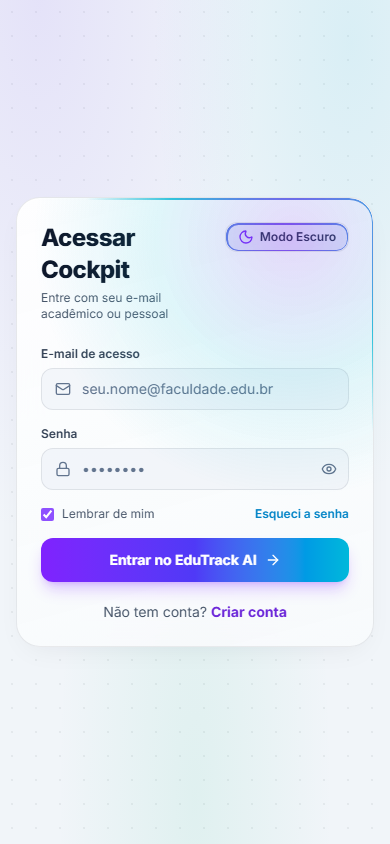
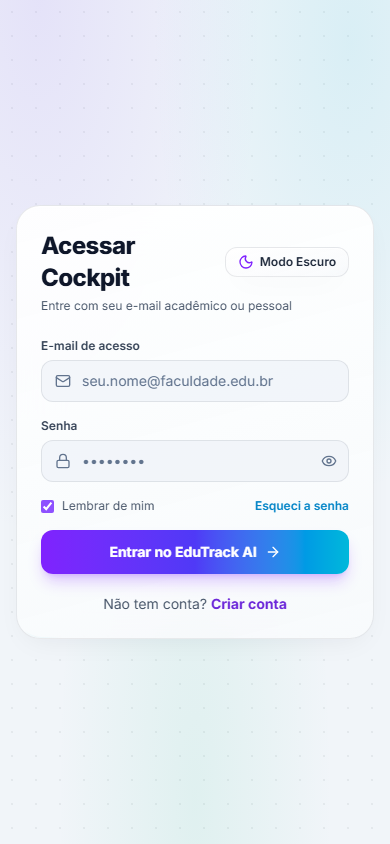
fix: move login theme toggle inside the login card
Replace the floating fixed toggle (desktop) and the mobile-only in-card toggle with a single toggle next to the 'Acessar Cockpit' title on all screen sizes; keep the subtitle on its own full-width line. Updates login screenshots.

Changed region(s): [[0.0923, 0.2156, 0.9538, 0.7701]]

diff --git a/src/views/LoginView.tsx b/src/views/LoginView.tsx
@@ -149,15 +149,6 @@ export const LoginView: React.FC = () => {
 
   return (
     <div className="min-h-screen bg-transparent text-slate-100 flex items-center justify-center p-4 sm:p-6 relative">
-      {/* Floating Theme Toggle on Desktop Login Screen */}
-      <button
-        type="button"
-        onClick={toggleTheme}
-        className="hidden sm:flex !fixed top-5 right-5 z-50 items-center gap-2 px-3.5 py-2 rounded-xl bento-card text-xs font-semibold text-slate-200 hover:border-violet-500/40 transition-all cursor-pointer"
-      >
-        {themeToggleContent}
-      </button>
-
       <div className="w-full max-w-4xl">
         <div className="relative z-10 w-full grid grid-cols-1 lg:grid-cols-12 rounded-3xl bento-card overflow-hidden shadow-2xl border-violet-500/25">
         {/* Left Branding Bento Showcase */}
@@ -199,18 +190,20 @@ export const LoginView: React.FC = () => {
 
         {/* Right Login Form */}
         <div className="lg:col-span-6 p-6 sm:p-10 flex flex-col justify-center">
-          <div className="mb-6 flex items-start justify-between gap-3">
-            <div>
-              <h1 className="text-2xl font-extrabold text-white tracking-tight">Acessar Cockpit</h1>
-              <p className="text-slate-400 text-xs mt-1">Entre com seu e-mail acadêmico ou pessoal</p>
-            </div>
+          <div className="mb-6">
+          <div className="flex items-center justify-between gap-3">
+            <h1 className="text-2xl font-extrabold text-white tracking-tight">Acessar Cockpit</h1>
+            {/* Theme toggle lives inside the login card on every screen size. */}
             <button
               type="button"
               onClick={toggleTheme}
-              className="sm:hidden shrink-0 flex items-center gap-1.5 px-3 py-1.5 rounded-xl bento-card text-xs font-semibold text-slate-200 hover:border-violet-500/40 transition-all cursor-pointer"
+              aria-label={theme === 'dark' ? 'Mudar para Modo Claro' : 'Mudar para Modo Escuro'}
+              className="shrink-0 flex items-center gap-1.5 px-3 py-1.5 rounded-xl bento-card text-xs font-semibold text-slate-200 hover:border-violet-500/40 transition-all cursor-pointer"
             >
               {themeToggleContent}
             </button>
+          </div>
+          <p className="text-slate-400 text-xs mt-1">Entre com seu e-mail acadêmico ou pessoal</p>
           </div>
 
           <form onSubmit={handleSubmit} className="space-y-4">
